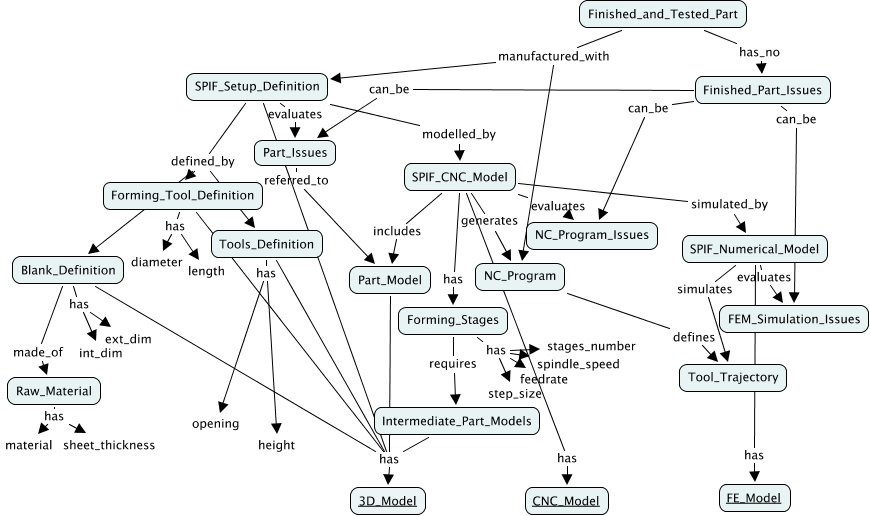
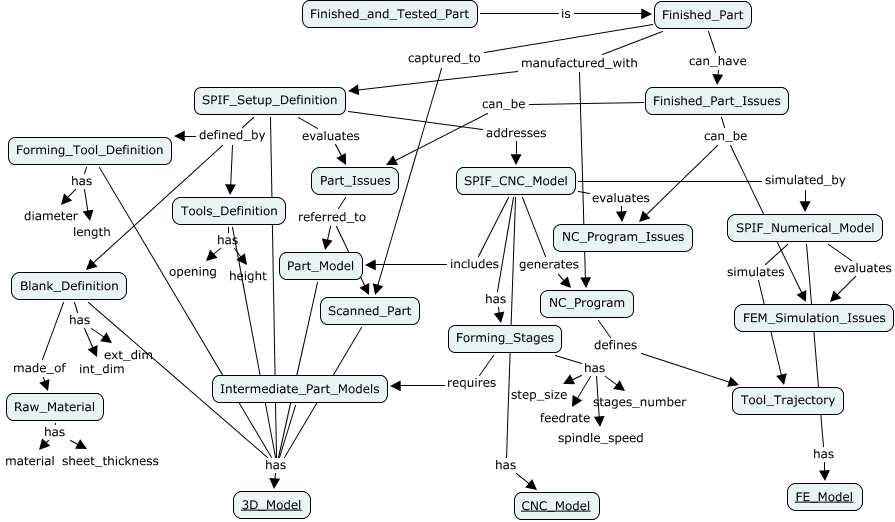
New classes: 'Finished Part', 'Scanned Part' - From Scope Model to Data Model - Rearrange Scope Model: 'SPIF Setup Definition' in A1 - Rearrange Data Model

diff --git a/README.md b/README.md
@@ -4,17 +4,17 @@ Design and extension model for Single Point Incremental Forming - SPIF
 
 ## Scope Model
 
-![SPIF_Scope_Model_01_A-0](SPIF_Scope_Model_01_A-0.jpg)
+![SPIF_Scope_Model_01_A-0](SPIF_Scope_Model_01_A-0.png)
 
-![SPIF_Scope_Model_02_A0](SPIF_Scope_Model_02_A0.jpg)
+![SPIF_Scope_Model_02_A0](SPIF_Scope_Model_02_A0.png)
 
-![SPIF_Scope_Model_03_A1](SPIF_Scope_Model_03_A1.jpg)
+![SPIF_Scope_Model_03_A1](SPIF_Scope_Model_03_A1.png)
 
-![SPIF_Scope_Model_04_A13](SPIF_Scope_Model_04_A13.jpg)
+![SPIF_Scope_Model_04_A13](SPIF_Scope_Model_04_A13.png)
 
-![SPIF_Scope_Model_05_A2](SPIF_Scope_Model_05_A2.jpg)
+![SPIF_Scope_Model_05_A2](SPIF_Scope_Model_05_A2.png)
 
-![SPIF_Scope_Model_06_A3](SPIF_Scope_Model_06_A3.jpg)
+![SPIF_Scope_Model_06_A3](SPIF_Scope_Model_06_A3.png)
 
 ## Data Model
 
